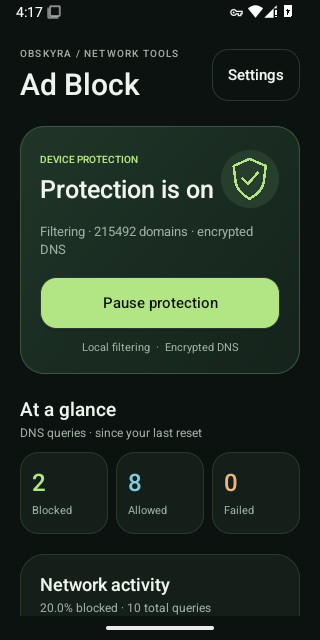
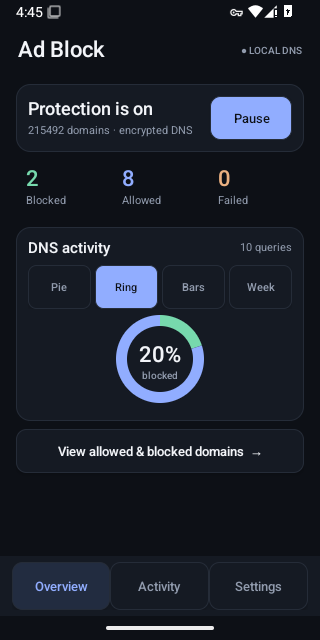
Record verified compact UI release and domain activity screenshots [skip ci]

diff --git a/README.md b/README.md
@@ -10,12 +10,12 @@
 <p align="center">
   <a href="https://github.com/billyke2000s/Ultimate-ad-block/actions/workflows/system-block.yml"><img src="https://github.com/billyke2000s/Ultimate-ad-block/actions/workflows/system-block.yml/badge.svg" alt="Android build status" /></a>
   <img src="https://img.shields.io/badge/Android-8.0%2B-afbf8b?style=flat-square&labelColor=162f20" alt="Android 8.0 and later" />
-  <img src="https://img.shields.io/badge/release-0.3.0%20preview-afbf8b?style=flat-square&labelColor=162f20" alt="Version 0.3.0 testing preview" />
+  <img src="https://img.shields.io/badge/release-0.4.0%20preview-afbf8b?style=flat-square&labelColor=162f20" alt="Version 0.4.0 testing preview" />
   <img src="https://img.shields.io/badge/DNS-HTTPS-afbf8b?style=flat-square&labelColor=162f20" alt="DNS over HTTPS" />
 </p>
 
 <p align="center">
-  <a href="https://github.com/billyke2000s/Ultimate-ad-block/releases/tag/v0.3.0"><strong>Release & APK</strong></a>
+  <a href="https://github.com/billyke2000s/Ultimate-ad-block/releases/tag/v0.4.0"><strong>Release & APK</strong></a>
   &nbsp; / &nbsp;
   <a href="docs/ARCHITECTURE.md">Architecture</a>
   &nbsp; / &nbsp;
@@ -38,9 +38,10 @@ Built from the domain list used by [Blockbrowser](https://github.com/billyke2000
 | :--- | :--- |
 | **Local domain filtering** | Bundles 215,000+ ad and tracker domain rules, with parent-domain matching. |
 | **Encrypted upstream DNS** | Resolves allowed queries through certificate-verified Cloudflare DNS over HTTPS, with no plaintext fallback. |
-| **Four views of activity** | Pie, doughnut, top-domain bars and a seven-day activity line. |
+| **Compact overview** | Fixed bottom navigation and four chart selectors that fit across the screen: pie, ring, bars and week. |
+| **Visible domain activity** | Search the latest 200 DNS queries and filter by blocked, allowed or failed, with per-query times and an allow-domain action. |
 | **Exceptions you control** | Allow a domain and its subdomains; restart protection to apply the change. |
-| **On-device statistics** | Saves query totals locally, with up to 200 domain entries and 90 days of daily history. |
+| **On-device statistics** | Preserves totals, up to 200 blocked-domain counters, 90 daily entries and the newest 200 queries. Turn activity recording off or clear its history in Settings. |
 | **Visible controls** | User-approved VPN consent, start/stop controls and a foreground notification with Stop. |
 
 **The counters measure DNS queries.** They do not measure individual ads, per-app activity or bandwidth saved.
@@ -48,12 +49,16 @@ Built from the domain list used by [Blockbrowser](https://github.com/billyke2000
 ## Inside the app
 
 <p align="center">
-  <img src="docs/screenshots/systemblock-active.png" width="300" alt="Android dashboard with a green protection card, one pause control and three query counters." />
+  <img src="docs/screenshots/systemblock-active.png" width="260" alt="Compact overview with protection controls, query totals, all four chart selectors and fixed bottom navigation." />
   &nbsp;
-  <img src="docs/screenshots/systemblock-ring.png" width="300" alt="Ring chart with real blocked and allowed query proportions from an emulator test." />
+  <img src="docs/screenshots/systemblock-blocked.png" width="260" alt="Activity screen showing actual blocked domain names, query times, search and outcome filters." />
+  &nbsp;
+  <img src="docs/screenshots/systemblock-settings.png" width="260" alt="Settings page with exception controls, recording toggle and local history controls." />
 </p>
 
-<p align="center"><sub>Actual v0.3.0 Android 15 emulator captures. Counters come from synthetic DNS test traffic.</sub></p>
+<p align="center"><sub>Actual v0.4.0 Android 15 emulator captures. Queries are synthetic test traffic.</sub></p>
+
+Activity history begins with this version; older totals do not contain past allowed-domain names. Recent activity is stored locally and can be disabled or cleared independently of the totals.
 
 ## Under the pixels
 
@@ -76,14 +81,14 @@ The upstream resolver can see allowed DNS queries. No analytics or query-history
 
 | Area | Evidence |
 | :--- | :--- |
-| Build, unit tests and lint | [Successful v0.3.0 workflow](https://github.com/billyke2000s/Ultimate-ad-block/actions/runs/41576934215); 15 unit tests; lint: 0 errors, 8 warnings. |
+| Build, unit tests and lint | [Successful v0.4.0 workflow](https://github.com/billyke2000s/Ultimate-ad-block/actions/runs/41579642400); 19 unit tests; lint: 0 errors, 8 warnings. |
 | Cross-app DNS and ordinary connectivity | Exercised by a separate probe app on Android 8 / API 26 and Android 15 / API 35 emulators. |
 | Service lifecycle | Named start/stop cases exercised in emulator CI. |
-| Charts | Four selectors exercised in emulator CI; dashboard and chart screenshots inspected. Full accessibility and physical-device review remains pending. |
+| Charts | Overview visibility, four selectors, activity filters and search exercised in emulator CI; actual captures inspected. Full accessibility and physical-device review remains pending. |
 | Physical devices | Full runtime test matrix remains pending; see the status document for device reports. |
 | Distribution | Debug-signed testing prerelease; stable production signing and update compatibility remain pending. |
 
-Source for the published APK: [`e0970d2`](https://github.com/billyke2000s/Ultimate-ad-block/commit/e0970d2a9b1e702fc8dfb0c7517c02606d275864). Detailed evidence and remaining work live in [STATUS](docs/STATUS.md).
+Source for the published APK: [`ef5adc0`](https://github.com/billyke2000s/Ultimate-ad-block/commit/ef5adc05b06dd742559c05ea0f7cb9699efb04b8). Detailed evidence and remaining work live in [STATUS](docs/STATUS.md).
 
 ## Know the edges
 

diff --git a/docs/STATUS.md b/docs/STATUS.md
@@ -1,9 +1,20 @@
 # Current state — read before work
 
 Updated: 2026-11-03. Repository: `billyke2000s/Ultimate-ad-block`.
-Product: **System Wide Block Browser**. Published **v0.3.0 testing prerelease**.
+Product: **System Wide Block Browser**. Published **v0.4.0 testing prerelease**.
 
-## Verified v0.3.0 release
+## Verified v0.4.0 release
+- Release: https://github.com/billyke2000s/Ultimate-ad-block/releases/tag/v0.4.0
+- Source: `ef5adc05b06dd742559c05ea0f7cb9699efb04b8`.
+- Successful CI: https://github.com/billyke2000s/Ultimate-ad-block/actions/runs/41579642400
+- 19 unit tests passed; lint 0 errors, 8 warnings; Android assembly passed.
+- Both API 26/35 emulator suites passed: real cross-app blocked/allowed DNS, ordinary TCP, lifecycle cases, overview chart/tab visibility without scrolling, chart selection, allowed/blocked/failed activity filtering and search.
+- Isolated Android persistence checks passed for save/reload, recording disabled and clearing history without resetting totals.
+- Actual API 35 overview, bars, domain filters and Settings captures inspected. Screenshot counters are actual synthetic probe traffic, not production fixtures.
[1 lines of base64/hex data omitted]
+- Physical-device/font-scale/accessibility matrix and the previously reported Play Protect classification remain unresolved. This release changes UI and local query retention, not Play Protect status.
+
+## Previous verified v0.3.0 release
 - Release: https://github.com/billyke2000s/Ultimate-ad-block/releases/tag/v0.3.0
 - APK: https://github.com/billyke2000s/Ultimate-ad-block/releases/download/v0.3.0/System-Wide-Block-Browser-v0.3.0.apk
 - Source: `e0970d2a9b1e702fc8dfb0c7517c02606d275864`.
@@ -77,7 +88,7 @@ Product: **System Wide Block Browser**. Published **v0.3.0 testing prerelease**.
 - User explicitly requested visibility of allowed and blocked domains. Recent allowed/failed names and timestamps are now stored locally as well as blocked records. Settings disclose this, allow recording to be disabled and activity to be cleared without clearing totals.
 - Existing counters, daily history, exceptions, package identity and DNS routing are preserved. No per-app identity is claimed.
 - Native alert dialogs now use the app palette; Settings is a full page.
-- Build/unit/lint/emulator verification pending for this revision; no new result claimed yet.
+- Build, 19 unit tests, lint and API 26/35 emulator checks passed. v0.4.0 is published; see verified release above.
 
 ## Next work
 1. Run the remaining physical-device matrix in VERIFICATION; record models, Android versions, APK hash and exact cases.
